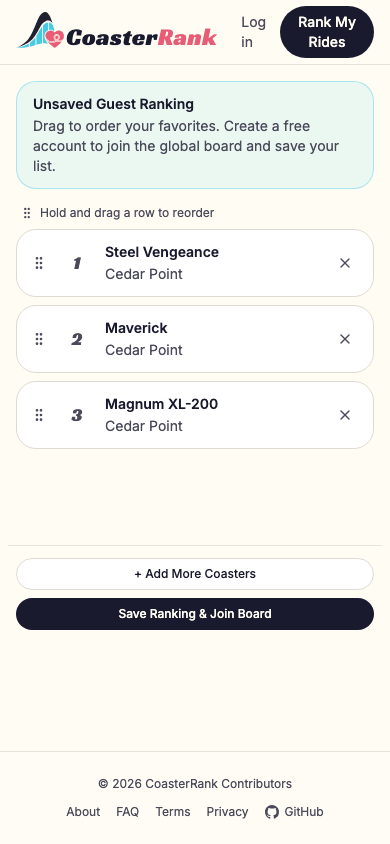
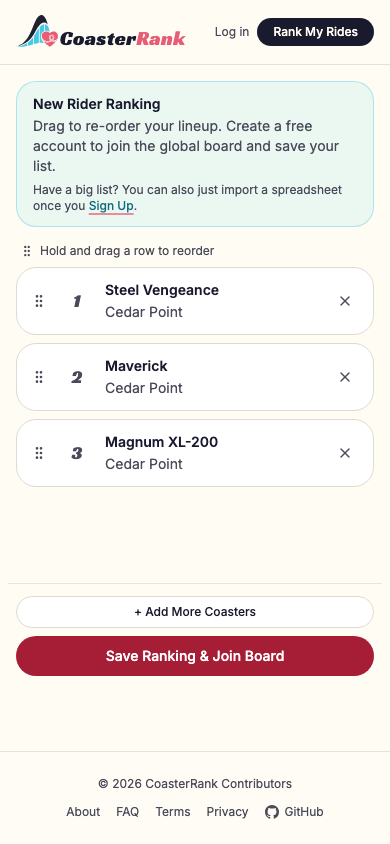
feat: feedback pass 3 — CTA juice, cap 150, spreadsheet path, mobile nav, copy
- Header CTA: larger pill + finite cta-pulse accent halo on initial
  pageload (3 breaths, box-shadow only, reduced-motion safe). Save stays
  pulse-free and gets color emphasis instead (coral brand pill).
- Guest cap 100 -> 150 (~6KB metadata; enthusiasts commonly clear 100).
  RPC ladder ceiling 200 -> 5000 aligned with apply_imported_rides —
  merged ladders from returning spreadsheet importers are legitimately
  large; the cap bounds only the guest portion.
- Spreadsheet alternate path (no import integration): 'Have a big list?
  You can also just import a spreadsheet once you Sign Up.' on the /rank
  banner + empty state, link-brand styling. No top-level Import button —
  it would split the primary funnel.
- Mobile nav: smaller wordmark (h-8/text-xl), text-xs + whitespace-nowrap
  so Log in / Rank My Rides never wrap. Log in stays visible.
- Copy: 'New Rider Ranking' / 'Drag to re-order your lineup.'; previews
  recaptured; spec changelog updated.

diff --git a/app/src/pages/GuestRankPage.tsx b/app/src/pages/GuestRankPage.tsx
@@ -1,5 +1,5 @@
 import { useCallback, useEffect, useMemo, useRef, useState } from 'react'
-import { Navigate, useNavigate } from 'react-router-dom'
+import { Navigate, Link, useNavigate } from 'react-router-dom'
 import { Helmet } from 'react-helmet-async'
 import { useQueryClient } from '@tanstack/react-query'
 import RankedCoasterList, {
@@ -150,6 +150,13 @@ export default function GuestRankPage() {
           <Button className="mt-6" onClick={handleAddMore}>
             Rank My Rides
           </Button>
+          <p className="mx-auto mt-4 max-w-xs text-xs text-muted">
+            Have a big list? You can also just import a spreadsheet once you{' '}
+            <Link to="/signup" className="link-brand">
+              Sign Up
+            </Link>
+            .
+          </p>
         </Panel>
       </div>
     )
@@ -161,10 +168,20 @@ export default function GuestRankPage() {
         <title>Rank Your Rides — CoasterRank</title>
       </Helmet>
       <div className="mb-4 rounded-xl border border-accent/40 bg-accent/10 px-4 py-3 text-sm">
-        <p className="font-semibold text-ink">Unsaved Guest Ranking</p>
+        <p className="font-semibold text-ink">New Rider Ranking</p>
         <p className="mt-0.5 text-muted">
-          Drag to order your favorites. Create a free account to join the global board and save your
+          Drag to re-order your lineup. Create a free account to join the global board and save your
           list.
+        </p>
+        {/* Power-user escape hatch (§3.3): someone with an existing
+            spreadsheet wants to jump straight to import after signup, not
+            toy-rank first. No import integration in the guest flow. */}
+        <p className="mt-1.5 text-xs text-muted">
+          Have a big list? You can also just import a spreadsheet once you{' '}
+          <Link to="/signup" className="link-brand">
+            Sign Up
+          </Link>
+          .
         </p>
       </div>
 
@@ -183,7 +200,9 @@ export default function GuestRankPage() {
           <Button variant="outline" size="sm" onClick={handleAddMore}>
             + Add More Coasters
           </Button>
-          <Button size="sm" onClick={handleSave} disabled={saving}>
+          {/* Coral: the brand "YES" pill tone (share banner precedent) — the
+              save action pops via color, no motion gimmicks. */}
+          <Button variant="coral" size="md" onClick={handleSave} disabled={saving}>
             {saving ? 'Saving…' : 'Save Ranking & Join Board'}
           </Button>
         </div>

diff --git a/app/src/components/Layout.tsx b/app/src/components/Layout.tsx
@@ -116,13 +116,13 @@ export default function Layout() {
                 height="1113"
                 fetchPriority="high"
                 decoding="async"
-                className="h-[2.3rem] w-auto shrink-0"
+                className="h-8 w-auto shrink-0 sm:h-[2.3rem]"
               />
-              <span className="display-heading -translate-y-[0.12em] text-2xl leading-none tracking-wide">
+              <span className="display-heading -translate-y-[0.12em] text-xl leading-none tracking-wide sm:text-2xl">
                 Coaster<span className="text-coral">Rank</span>
               </span>
             </Link>
-            <nav className="flex items-center gap-3 text-sm sm:gap-5">
+            <nav className="flex items-center gap-2 whitespace-nowrap text-xs sm:gap-5 sm:text-sm">
               {isLoading ? null : user ? (
                 <UserMenu profile={profile} userId={user.id} onSignOut={onSignOut} />
               ) : (
@@ -130,10 +130,15 @@ export default function Layout() {
                   <NavLink to="/login" className={navLinkClass}>
                     Log in
                   </NavLink>
+                  {/* GUEST_UX.md §3.1: the primary funnel CTA — slightly larger
+                    than a plain nav item, with a finite accent halo on initial
+                    pageload (3 breaths, reduced-motion safe). Not a Link to
+                    /signup anymore: signup stays reachable via /login + the
+                    nudge card's secondary link. */}
                   <button
                     type="button"
                     onClick={onRankMyRides}
-                    className="rounded-full bg-ink px-3.5 py-1.5 font-medium text-canvas transition-colors hover:bg-ink-soft"
+                    className="animate-cta-pulse rounded-full bg-ink px-4 py-1.5 font-medium text-canvas transition-colors hover:bg-ink-soft sm:px-5 sm:py-2"
                   >
                     Rank My Rides
                   </button>

diff --git a/app/src/lib/guest-promotion.ts b/app/src/lib/guest-promotion.ts
@@ -16,8 +16,13 @@ export const PENDING_GUEST_RIDES_KEY = 'pending_guest_rides'
  */
 export const GUEST_STALE_ERRCODE = 'PGRD1'
 
-/** Guest list ceiling: the RPC refuses > 200; the client caps at 100. */
-export const GUEST_PAYLOAD_CEILING = 200
+/**
+ * Ladder ceiling, aligned with apply_imported_rides (5000): the payload is
+ * the COMPLETE merged ladder, and a returning spreadsheet importer can
+ * legitimately rank thousands — the guest cap (150) only bounds the guest
+ * portion, never the whole payload.
+ */
+export const GUEST_PAYLOAD_CEILING = 5000
 
 export type GuestPromotionKind = 'materialize' | 'merge_append' | 'fast_add'
 

diff --git a/app/src/index.css b/app/src/index.css
@@ -133,3 +133,26 @@
     animation: none;
   }
 }
+
+/* Header CTA attention pulse (guest mark & rank): a soft accent halo that
+   breathes 3 times on initial pageload, then stops — understated, not spammy.
+   Box-shadow only, so it never shifts layout. */
+@keyframes cta-pulse {
+  0%,
+  100% {
+    box-shadow: 0 0 0 0 rgb(var(--color-accent) / 0.5);
+  }
+  50% {
+    box-shadow: 0 0 0 9px rgb(var(--color-accent) / 0);
+  }
+}
+
+.animate-cta-pulse {
+  animation: cta-pulse 1.6s ease-out 3;
+}
+
+@media (prefers-reduced-motion: reduce) {
+  .animate-cta-pulse {
+    animation: none;
+  }
+}

diff --git a/app/src/lib/guest-rides.ts b/app/src/lib/guest-rides.ts
@@ -7,10 +7,11 @@ import type { UserRide } from './rides'
 
 export const GUEST_RIDES_STORAGE_KEY = 'cr.guest-rides.v1'
 /**
- * Guest list cap (GUEST_UX.md §2.2). Keeps the signup-metadata payload far
+ * Guest list cap (GUEST_UX.md §2.2): enthusiasts commonly clear 100 rides;
+ * 150 is the rarer air. Keeps the signup-metadata payload ~6KB — still far
  * below GoTrue's undocumented raw_user_meta_data limits (supabase/auth#1776).
  */
-export const GUEST_RIDES_CAP = 100
+export const GUEST_RIDES_CAP = 150
 
 export interface GuestRideItem {
   coaster_id: string

diff --git a/scripts/src/e2e/scenarios/previews-guest-mark-rank.ts b/scripts/src/e2e/scenarios/previews-guest-mark-rank.ts
@@ -188,7 +188,7 @@ async function main(): Promise<void> {
           const handle = await mockSupabase(page, { tables: boardTables, rpcs })
           await seedGuest(page, [ID_SV, ID_MV, ID_MG])
           await page.goto(`${BASE}/rank`)
-          await waitForVisible(page, 'text=Unsaved Guest Ranking')
+          await waitForVisible(page, 'text=New Rider Ranking')
           await waitForVisible(page, 'text=Steel Vengeance')
           console.log(`[02 ${kind}] prod reads:`, JSON.stringify(handle.prodReads()))
           return page

diff --git a/app/src/pages/BoardPage.tsx b/app/src/pages/BoardPage.tsx
@@ -278,7 +278,7 @@ export default function BoardPage() {
   const handleToggleSelect = useCallback((row: Parameters<typeof toggleGuestRide>[0]) => {
     const result = toggleGuestRide(row)
     if (result === 'capped') {
-      setCapToast('You can rank up to 100 coasters as a guest — sign up to go beyond that.')
+      setCapToast('You can rank up to 150 coasters as a guest — sign up to go beyond that.')
     }
   }, [])
 

diff --git a/app/src/lib/guest-promotion.test.ts b/app/src/lib/guest-promotion.test.ts
@@ -94,7 +94,7 @@ describe('rpc wrappers', () => {
   })
 
   it('refuses oversized payloads client-side (RPC ceiling mirror)', async () => {
-    const ids = Array.from({ length: 201 }, (_, i) => `c${i}`)
+    const ids = Array.from({ length: 5001 }, (_, i) => `c${i}`)
     await expect(materializeGuestRides(ids, 'materialize', null)).rejects.toThrow(/too large/i)
     expect(supabase.rpc).not.toHaveBeenCalled()
   })

diff --git a/docs/GUEST_UX.md b/docs/GUEST_UX.md
@@ -24,6 +24,14 @@ Result of the pre-implementation technical review against the live schema and co
 5. **(E) Stale metadata recovery**: a coverage-guard failure on a secondary device means the account has progressed past the guest payload — the client treats that errcode as "stale", wipes `pending_guest_rides`, and continues (no recurring login errors).
 6. **(F) Editorial/a11y**: duplicate §4.3/§4.4 headings removed; selection rows use `aria-selected` + a real checkbox in the rank column (never `aria-pressed` on `<tr>`).
 
+### Changelog (v2.1 feedback pass 3)
+
+1. **Spreadsheet alternate path, not integration**: the `/rank` banner and empty state carry _"Have a big list? You can also just import a spreadsheet once you **Sign Up**."_ Import stays a post-signup surface (`/me`); no top-level Import button (it would split the primary funnel — power users self-select at `/rank` or via the Welcome modal).
+2. **Header CTA juice**: slightly larger pill + the finite `cta-pulse` accent halo on initial pageload (reduced-motion safe). Save stays pulse-free — it gets emphasis from color (coral brand pill) instead.
+3. **Guest cap 100 → 150** (~6KB metadata): enthusiasts commonly clear 100 rides. The RPC ladder ceiling is now **5000, aligned with `apply_imported_rides`** — merged ladders from returning spreadsheet importers are legitimately large, so the ceiling must bound ladders, not guest lists.
+4. **Mobile nav wrapping**: smaller wordmark (`h-8`/`text-xl`), nav text drops a tier (`text-xs`) with `whitespace-nowrap` so Log in / Rank My Rides never break lines. "Log in" stays visible.
+5. **Copy**: "Unsaved Guest Ranking" → **"New Rider Ranking"**; "Drag to order your favorites" → **"Drag to re-order your lineup."**
+
 ---
 
 ## Part I: Product Requirements Document (PRD)
@@ -61,7 +69,7 @@ Email verification is a load-bearing anti-abuse invariant protecting the public 
 - **No Cross-Device Local Sync**: Guest sessions are bound to their current browser until promoted to a confirmed account.
 - **No Pre-Auth Server Telemetry**: Guest events are never written server-side; funnel capture happens post-auth via `guest_promotions` (§5.1 spells out the measurement consequences).
 - **No `auth.users` Trigger in v1**: Materialization is client-side on the confirmed login path (§3.4); a server-side trigger is deferred hardening, not launch scope.
-- **Guest Cap: 100 Coasters**: Guests can mark at most 100 coasters (metadata-size safety, §2.2); power users rank beyond that after signup.
+- **Guest Cap: 150 Coasters**: Guests can mark at most 150 coasters (metadata-size safety, §2.2); power users rank beyond that after signup via import.
 
 ---
 
@@ -86,7 +94,7 @@ flowchart TD
 #### 3.1 Mode 1: The Browse Experience (Default)
 
 - The global board (`/`) loads in its clean, read-optimized table layout.
-- The desktop header CTA changes from a generic `Sign up` to **`Rank My Rides`**.
+- The desktop header CTA changes from a generic `Sign up` to **`Rank My Rides`** — slightly larger than a plain nav item, with a **finite accent-halo pulse on initial pageload** (3 breaths, box-shadow only, reduced-motion safe; never on the Save button — one motion accent per page).
 - The existing engagement-timed nudge (`SignupCta`) continues firing for passive browsers (after 16s engaged dwell + scroll, `SIGNUP_CTA_ENGAGED_SECONDS`), but its primary button now reads **`Rank My Rides`** — the same CTA as the header — triggering Mark Mode directly on the board rather than sending the user to a blank form.
 
 #### 3.2 Mode 2: "Mark Ridden" Mode (Board Focus / Selection Overlay)
@@ -127,12 +135,14 @@ When the user clicks **`Rank My Rides (N)`**, they transition to `/rank`:
    - Items can be deleted from the draft list via the standard swipe/trash affordance.
 3. **Status Banner & CTA Chrome**:
    - Top banner:
-     > **Unsaved Guest Ranking** · Drag to order your favorites. Create a free account to join the global board and save your list.
+     > **New Rider Ranking** · Drag to re-order your lineup. Create a free account to join the global board and save your list.
+     > _Have a big list? You can also just import a spreadsheet once you **Sign Up**._
    - Sticky footer action bar:
      - **`Save Ranking & Join Board`** (Prominent coral/accent button).
      - **`+ Add More Coasters`** (Navigates back to `/` with Mark Mode pre-activated and existing selections preserved).
 4. **Direct / Empty Visits**:
    - `/rank` hit directly (shared URL, back button) with no guest rides shows an empty state: brief explainer plus a **`Rank My Rides`** button returning to the board with Mark Mode pre-activated.
+   - The empty state also carries the spreadsheet line — _"Have a big list? You can also just import a spreadsheet once you Sign Up."_
    - A logged-in user with **0 rides** who reaches `/rank` (not redirected — see Part II §3.1) gets the same workbench in seed mode; saving materializes the list via `materialize_guest_rides` — no signup, no merge modal.
 5. **Order lifecycle (review round 2, D)** — seeding vs. manual order:
    - **Phase 1 (seed)**: while the guest list is unlocked (`orderLocked: false`), newly marked coasters are seeded into board-rank position.
@@ -291,8 +301,8 @@ export interface GuestRankingState {
 
 #### 2.2 Storage Limits & Sanitation
 
-- **Quota Safety**: Max 100 coasters stored locally (~4KB of IDs + snapshots; well under the 5MB browser quota). The 100 cap also keeps the signup-metadata payload far below GoTrue's undocumented `raw_user_meta_data` size limits, which can break auth sessions when exceeded (supabase/auth#1776).
-- **Cap Overflow UX**: Marking beyond 100 is a no-op: the row toggles back off, a toast explains ("You can rank up to 100 coasters as a guest"), and the dock counter stays at 100. The RPC enforces a generous server-side ceiling (200) as defense-in-depth.
+- **Quota Safety**: Max 150 coasters stored locally (~6KB of IDs + snapshots; well under the 5MB browser quota). 150 because enthusiasts commonly clear 100 rides and 150 keeps the signup-metadata payload far below GoTrue's undocumented `raw_user_meta_data` size limits, which can break auth sessions when exceeded (supabase/auth#1776).
+- **Cap Overflow UX**: Marking beyond 150 is a no-op: the row toggles back off, a toast explains ("You can rank up to 150 coasters as a guest"), and the dock counter stays at 150. The RPC enforces a 5000-row ladder ceiling aligned with the import contract (see §4.3).
 - **Catalog Drift Resilience**: Snapshots store `name` and `slug` so that if catalog data updates while offline, the user’s UI does not crash.
 - **Idempotency**: Adding an already-selected coaster is a no-op; removing a coaster deletes it from both `orderedIds` and `items`.
 
@@ -429,7 +439,7 @@ Semantics (mirrors the ranked-ladder half of `apply_imported_rides`, minus impor
 - **Ladder validation**: payload must be a JSON array of coaster UUIDs; any unknown ID raises (same "refresh and retry" contract as the import RPC). Duplicates are deduped, first occurrence wins.
 - **Coverage guard**: if the user has ranked rows absent from the payload, raise with the **dedicated errcode `PGRD1`** — the client uses it for stale-payload recovery (review round 2, E) rather than treating it as a generic failure. Clients always send the complete ladder — the full guest list for fresh accounts, the full merged list for merge-append — making "never silently drop part of a ladder" structurally impossible.
 - **Rewrite**: ranks are rewritten `1..n` gapless from array position; holding-pen rows (`rank = null`) not in the payload stay unranked. Idempotent by construction.
-- **Server-side ceiling**: reject payloads > 200 IDs (the client caps at 100; this is defense-in-depth).
+- **Server-side ceiling**: reject payloads > 5000 rows, aligned with `apply_imported_rides` (the payload is the complete merged ladder — a returning spreadsheet importer can legitimately rank thousands; the guest cap bounds only the guest portion).
 - **Telemetry**: when provided, inserts one `guest_promotions` row with `duration_ms = GREATEST(0, now() - p_started_at)` — the clamp guards against client device clock skew producing negative durations (review round 2, A).
 - **No side effects**: no Telegram notification, no `import_events` row, no profile stamping.
 

diff --git a/docs/previews/guest-mark-rank/README.md b/docs/previews/guest-mark-rank/README.md
@@ -8,7 +8,7 @@ Captured 2026-09-11 against the PR build at localhost:5199.
 | --- | --- |
 | `01-mark-mode-desktop.png` | Board in Mark Mode (logged out): "Step 1 of 2" guidance banner above the filters, two rows marked (checkbox + checkmark + accent tint), floating dock with the live counter `Rank My Rides (2)` and Clear. Header CTA is now "Rank My Rides". |
 | `01-mark-mode-mobile.png` | Same state on mobile: 54px touch targets, dock above the safe area. |
-| `02-rank-workbench-desktop.png` | `/rank` with a seeded 3-coaster guest list: "Unsaved Guest Ranking" banner, the same sortable cards as `/me`, sticky "+ Add More Coasters" / "Save Ranking & Join Board" footer. |
+| `02-rank-workbench-desktop.png` | `/rank` with a seeded 3-coaster guest list: "New Rider Ranking" banner ("Drag to re-order your lineup"), the spreadsheet alternate-path line (Sign Up link), the same sortable cards as `/me`, coral sticky "Save Ranking & Join Board". |
 | `02-rank-workbench-mobile.png` | Same on mobile with the "Hold and drag a row to reorder" hint. |
 | `03-merge-modal-desktop.png` | Login interception (§4.4): a returning user with a local guest list signing into an account that already has 1 ranked ride gets the merge modal — "Add 2 to the bottom of my account" (complete merged ladder) or "Discard". No replace option exists. |
 | `03-merge-modal-mobile.png` | Same modal on mobile. |
